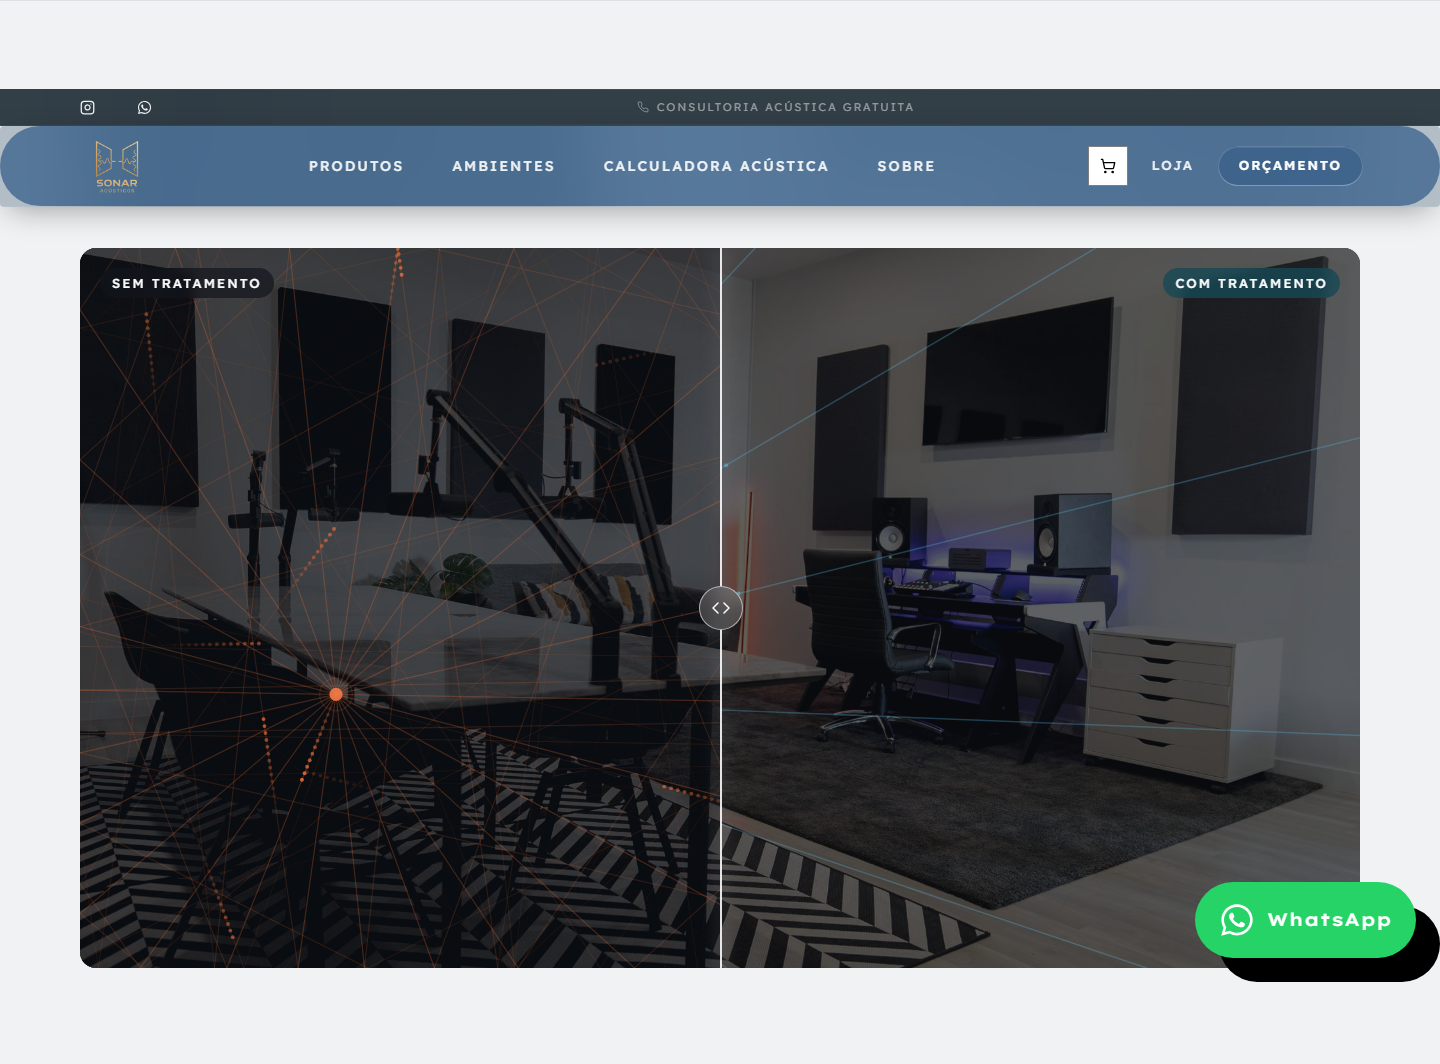
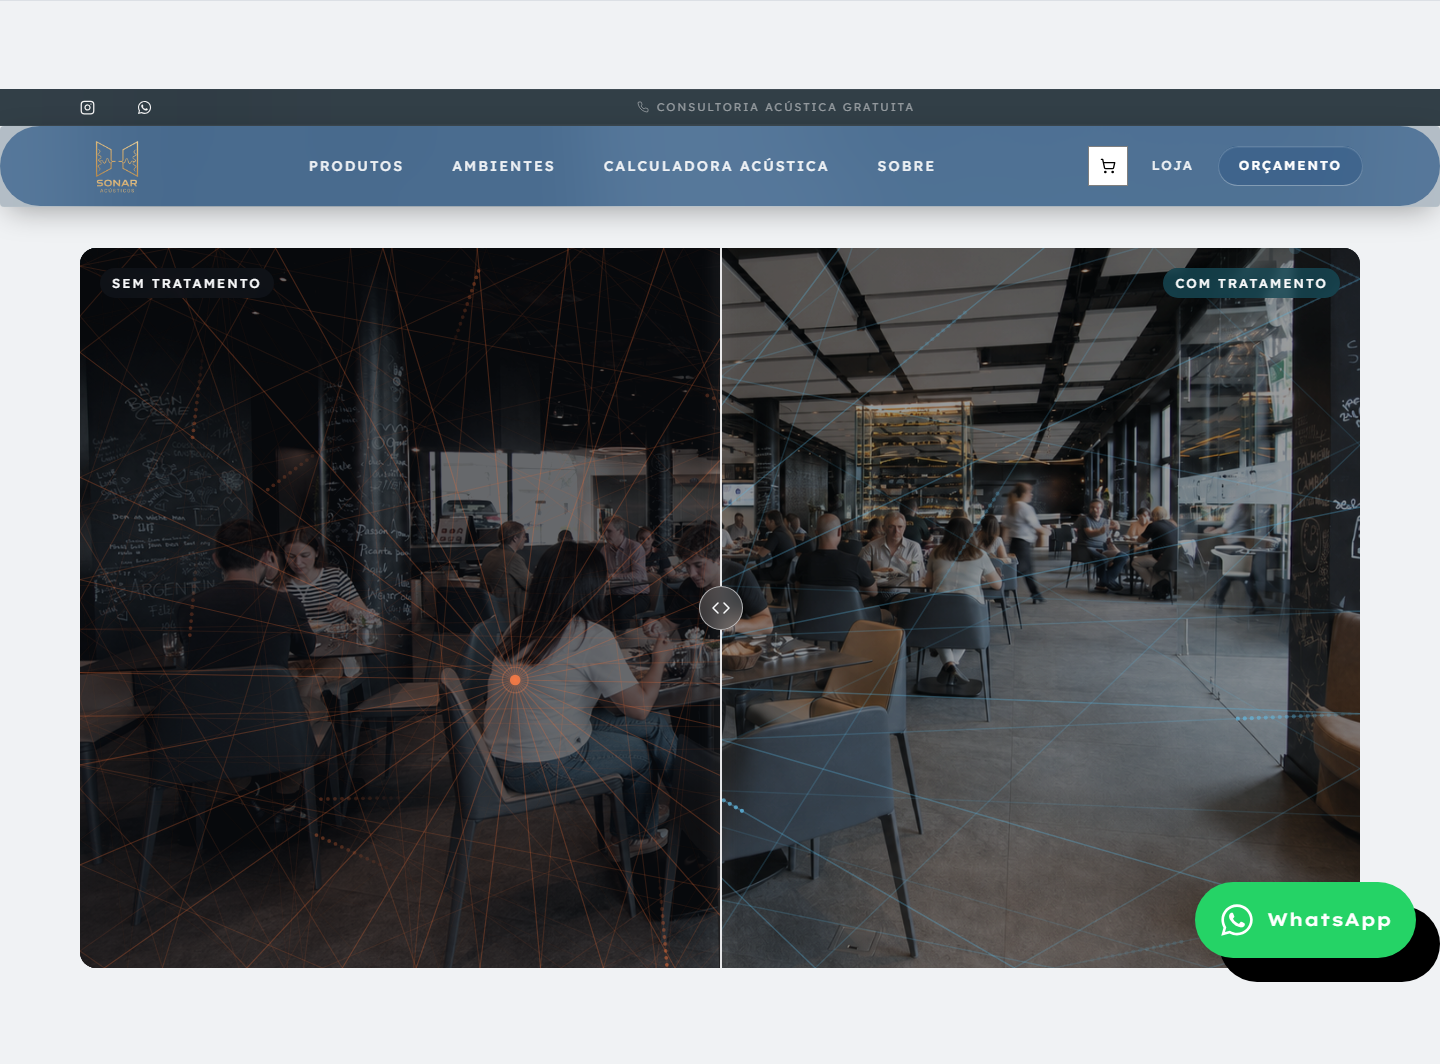
Use real before/after photos in the acoustic comparator
The untreated side now shows the restaurant with its ceiling exposed and
no panels; the treated side is the same room, same people, with panels
installed overhead. Ray tracing follows the photos: with panels on the
ceiling, any ray that travels upward is absorbed there and never returns,
while the untreated room keeps reflecting off every surface.

Claude-Session: https://claude.ai/code/session_011VsGpNFcPn64Nw7vVMJ7Jw

diff --git a/src/components/sonar/AcousticComparator.tsx b/src/components/sonar/AcousticComparator.tsx
@@ -1,6 +1,7 @@
 import { useCallback, useEffect, useRef, useState } from "react";
 import { Eyebrow, Lead, Section, SectionTitle } from "./primitives";
-import roomPhoto from "@/assets/products/painel-acustico-snr3250/panneaux_acoustiques_noir_gris_podcast - Copia.jpg";
+import roomUntreated from "@/assets/comparador/restaurante-sem-tratamento.png";
+import roomTreated from "@/assets/comparador/restaurante-com-tratamento.png";
 
 /**
  * Comparador acústico — assinatura visual da homepage.
@@ -27,6 +28,9 @@ function traceRay(
   bounces: number,
   w: number,
   h: number,
+  /** quando verdadeiro, o teto absorve o raio em vez de refleti-lo —
+      é onde os painéis estão instalados na foto tratada */
+  absorbCeiling = false,
 ): Point[] {
   const points: Point[] = [{ ...origin }];
   let dx = Math.cos(angle);
@@ -37,18 +41,22 @@ function traceRay(
   for (let b = 0; b <= bounces; b++) {
     let t = Infinity;
     let axis: "x" | "y" | null = null;
+    let hitCeiling = false;
 
-    if (dx > 1e-9) { const tt = (w - cx) / dx; if (tt < t) { t = tt; axis = "x"; } }
-    else if (dx < -1e-9) { const tt = -cx / dx; if (tt < t) { t = tt; axis = "x"; } }
+    if (dx > 1e-9) { const tt = (w - cx) / dx; if (tt < t) { t = tt; axis = "x"; hitCeiling = false; } }
+    else if (dx < -1e-9) { const tt = -cx / dx; if (tt < t) { t = tt; axis = "x"; hitCeiling = false; } }
 
-    if (dy > 1e-9) { const tt = (h - cy) / dy; if (tt < t) { t = tt; axis = "y"; } }
-    else if (dy < -1e-9) { const tt = -cy / dy; if (tt < t) { t = tt; axis = "y"; } }
+    if (dy > 1e-9) { const tt = (h - cy) / dy; if (tt < t) { t = tt; axis = "y"; hitCeiling = false; } }
+    else if (dy < -1e-9) { const tt = -cy / dy; if (tt < t) { t = tt; axis = "y"; hitCeiling = true; } }
 
     if (!isFinite(t) || t <= 0) break;
 
     cx += dx * t;
     cy += dy * t;
     points.push({ x: cx, y: cy });
+
+    // painel absorvente no teto: a energia termina aqui
+    if (absorbCeiling && hitCeiling) break;
 
     if (axis === "x") dx = -dx;
     else dy = -dy;
@@ -118,19 +126,21 @@ const WaveField = ({ treated }: { treated: boolean }) => {
 
       const w = rect.width;
       const h = rect.height;
-      // fonte sonora posicionada como quem fala/toca dentro da sala
-      source = { x: w * 0.2, y: h * 0.62 };
+      // fonte na altura das mesas, onde as conversas acontecem
+      source = { x: w * 0.34, y: h * 0.6 };
 
-      // sem absorção o som volta muitas vezes; com painéis, morre na primeira parede
-      const bounces = treated ? 0 : 6;
-      const count = treated ? 22 : 26;
+      // Sem painéis o som ricocheteia por toda a sala. Com os painéis no
+      // teto, cada raio que sobe termina ali — só o que segue rente ao
+      // piso ainda devolve alguma reflexão.
+      const bounces = treated ? 2 : 6;
+      const count = treated ? 26 : 30;
 
       rays = [];
       for (let i = 0; i < count; i++) {
         // leque completo, com raios quase paralelos às paredes para
         // evidenciar o flutter echo entre superfícies opostas
         const angle = (i / count) * Math.PI * 2 + (treated ? 0.04 : 0.017);
-        const points = traceRay(source, angle, bounces, w, h);
+        const points = traceRay(source, angle, bounces, w, h, treated);
         const lengths = cumulativeLengths(points);
         rays.push({
           points,
@@ -285,9 +295,9 @@ export default function AcousticComparator() {
           </SectionTitle>
         </div>
         <Lead className="lg:max-w-md lg:text-right">
-          Arraste para comparar. À esquerda, o som bate nas superfícies e volta repetidas vezes,
-          somando reflexos. À direita, os painéis absorvem essa energia — ela chega à parede e não
-          retorna.
+          Arraste para comparar. O mesmo salão, na mesma hora: à esquerda o teto exposto devolve
+          cada conversa de volta à sala. À direita, os painéis instalados no teto absorvem essa
+          energia antes que ela retorne.
         </Lead>
       </div>
 
@@ -303,12 +313,12 @@ export default function AcousticComparator() {
         {/* Lado tratado (base) */}
         <div className="absolute inset-0">
           <img
-            src={roomPhoto}
-            alt="Ambiente com tratamento acústico Sonar instalado"
+            src={roomTreated}
+            alt="O mesmo restaurante depois, com painéis acústicos instalados no teto"
             className="h-full w-full object-cover"
-            style={{ filter: "saturate(1.02) contrast(1.02) brightness(0.62)" }}
+            style={{ filter: "saturate(1.04) contrast(1.02) brightness(0.78)" }}
           />
-          <div className="absolute inset-0 bg-snr-graphite-deep/45" />
+          <div className="absolute inset-0 bg-snr-graphite-deep/25" />
           <WaveField treated />
         </div>
 
@@ -318,12 +328,12 @@ export default function AcousticComparator() {
           style={{ clipPath: `polygon(0 0, ${position}% 0, ${position}% 100%, 0 100%)` }}
         >
           <img
-            src={roomPhoto}
-            alt="O mesmo ambiente sem tratamento acústico"
+            src={roomUntreated}
+            alt="Restaurante antes do tratamento, com o teto exposto e sem painéis"
             className="h-full w-full object-cover"
-            style={{ filter: "saturate(0.6) contrast(1.25) brightness(0.5) hue-rotate(-10deg)" }}
+            style={{ filter: "saturate(0.72) contrast(1.18) brightness(0.62) hue-rotate(-8deg)" }}
           />
-          <div className="absolute inset-0 bg-snr-graphite-deep/55" />
+          <div className="absolute inset-0 bg-snr-graphite-deep/40" />
           <WaveField treated={false} />
         </div>
 
